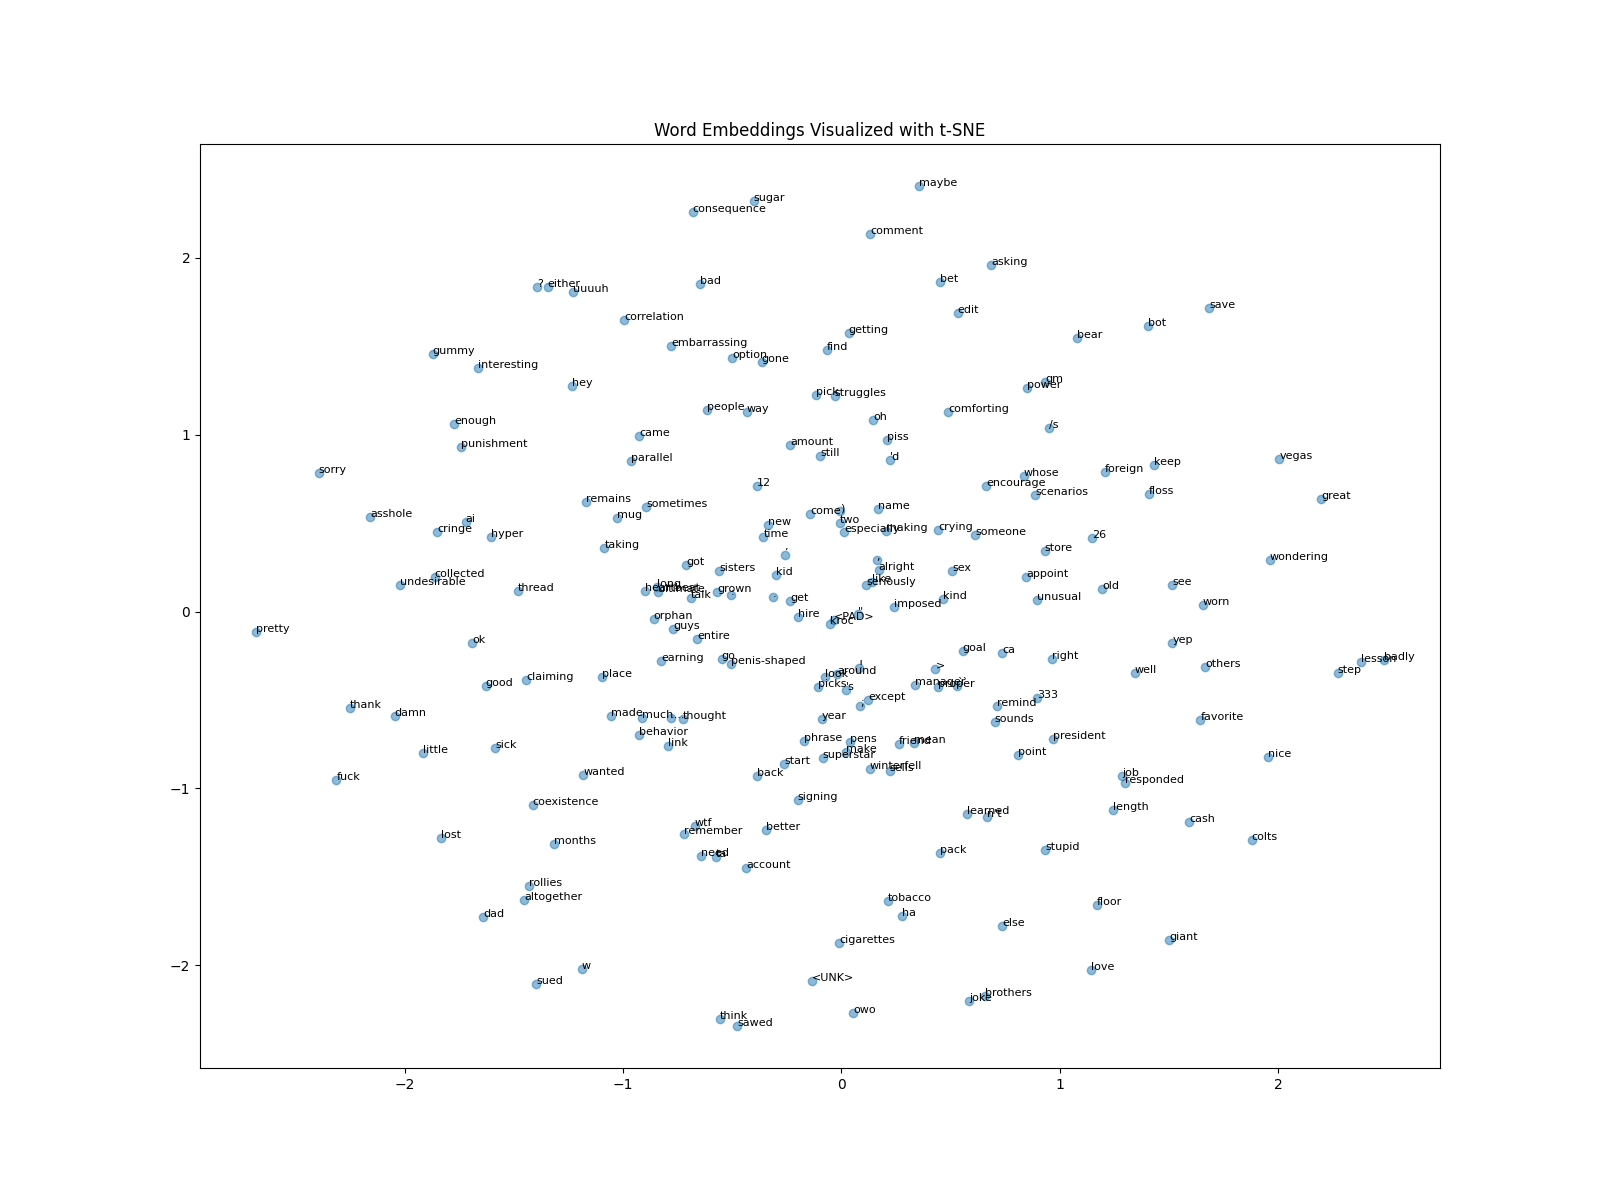
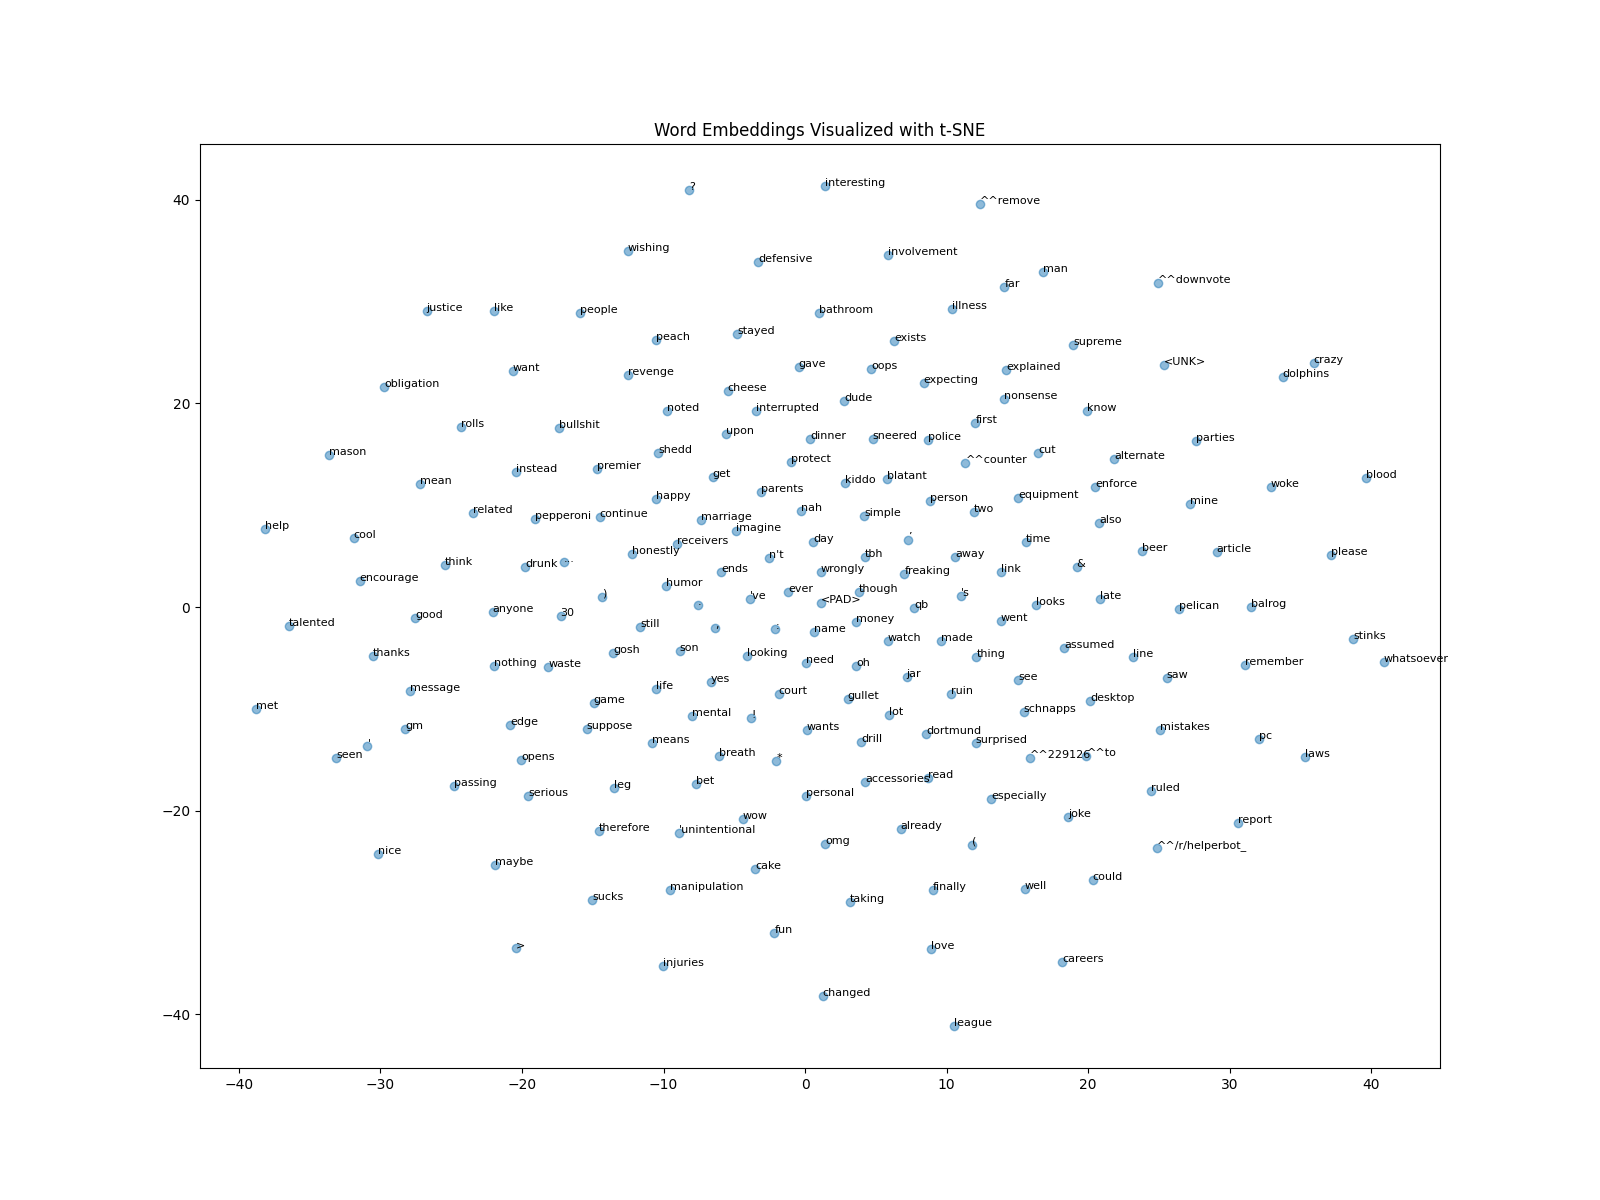
readme and final touches

diff --git a/models/n_grams.py b/models/n_grams.py
@@ -21,7 +21,7 @@ class NGrams(Featurizer, Model):
         super().__init__()
         self.class_corpuses = {}
         self.n = n
-        self.interpolation = [.1, .3, .6] # TODO, automate creating the weight for any n
+        self.interpolation = [.1, .3, .6]
         self.unigram_count = 0
         self.k = k
         self.global_vocab = set() 
@@ -65,8 +65,6 @@ class NGrams(Featurizer, Model):
             
             final_prob += np.log(total_prob_for_n_gram)
             
-        # Optional: Add Log Prior P(Class) to handle class imbalance
-        # final_prob += np.log(self.class_total_words[label] / sum(self.class_total_words.values()))
         
         return final_prob
 

diff --git a/evaluate.py b/evaluate.py
@@ -186,7 +186,7 @@ class EvalModel():
         # plot losses 
         plt.plot(epochs, loss_vs_epochs, label="Train Loss")
         plt.plot(epochs, validation_loss_vs_epochs, label="Validation Loss")
-        plt.title("Loss over Epochs")
+        plt.title("Fixed Window Loss over Epochs")
         plt.xlabel("Epoch")
         plt.ylabel("Loss")
         plt.legend()
@@ -196,7 +196,7 @@ class EvalModel():
 
         # plot perplexity
         plt.plot(epochs, perplexity_vs_epochs, label="Perplexity")
-        plt.title("Perplexity over Epochs")
+        plt.title("Fixed Window Perplexity over Epochs")
         plt.xlabel("Epoch")
         plt.ylabel("Perplexity")
         plt.legend()

diff --git a/Readme.md b/Readme.md
@@ -1,1 +1,67 @@
 # NLP Final Project
+
+# Steps To Run
+
+## Install Required Dependencies
+``` bash
+pip3 install -r requirements.txt
+```
+
+## Run Project
+For this project we have 3 models to run with some tweakable hyperparameters.
+
+When running the project for the first time please include the --download_nltk flag to install the necessary data to run the project.
+
+``` bash
+python3 evaluate.py --download_nltk
+```
+
+The model flag lets you choose which model to run the program on. The choices are n-grams, fixed-window, and bert. By default the evaluate.py file will run the n-grams model.
+
+### N-Grams
+To run n-grams (only n-grams configuration is n=3 k=1) please use the following command
+
+```bash
+python3 evaluate.py 
+```
+
+This will run n-grams and evaluate the model on our kaggle training and validation datasets. The results of the model will be printed to the terminal.
+
+### Fixed-Window
+To run the fixed-window model please use the following command
+
+``` bash
+python3 evaluate.py --model fixed-window
+```
+
+Optionally you can also change the window size and word embedding dimension for the model with the flags:
+--window_size (int)
+--embedding_dim (int)
+
+This command will run the fixed_window model for 10 epochs, each epoch will print the training loss, development loss, and perplexity. It will also create to plots that demonstrate these metrics over the epochs in the base directory of the project.
+
+Our best model was run with the following command
+``` bash
+python3 evaluate.py --model fixed-window --window 5
+```
+
+### Bert
+To run the bert model please use the following command
+
+``` bash
+python3 evaluate.py --model bert
+```
+
+Optionally you can specify the number of epochs and learning rate with the following flags
+--epochs (int)
+--lr (float)
+
+When running bert, the model will print the epoch | training loss | and validation accuracy as the epochs go on
+
+Our best model was ran with the following commmands 
+
+``` bash
+python3 evaluate.py --model bert --epochs 3 --lr 5e-6
+```
+
+Running this will result in a plot demonstrating the loss, validation accuracy, and perplexity over epochs.
